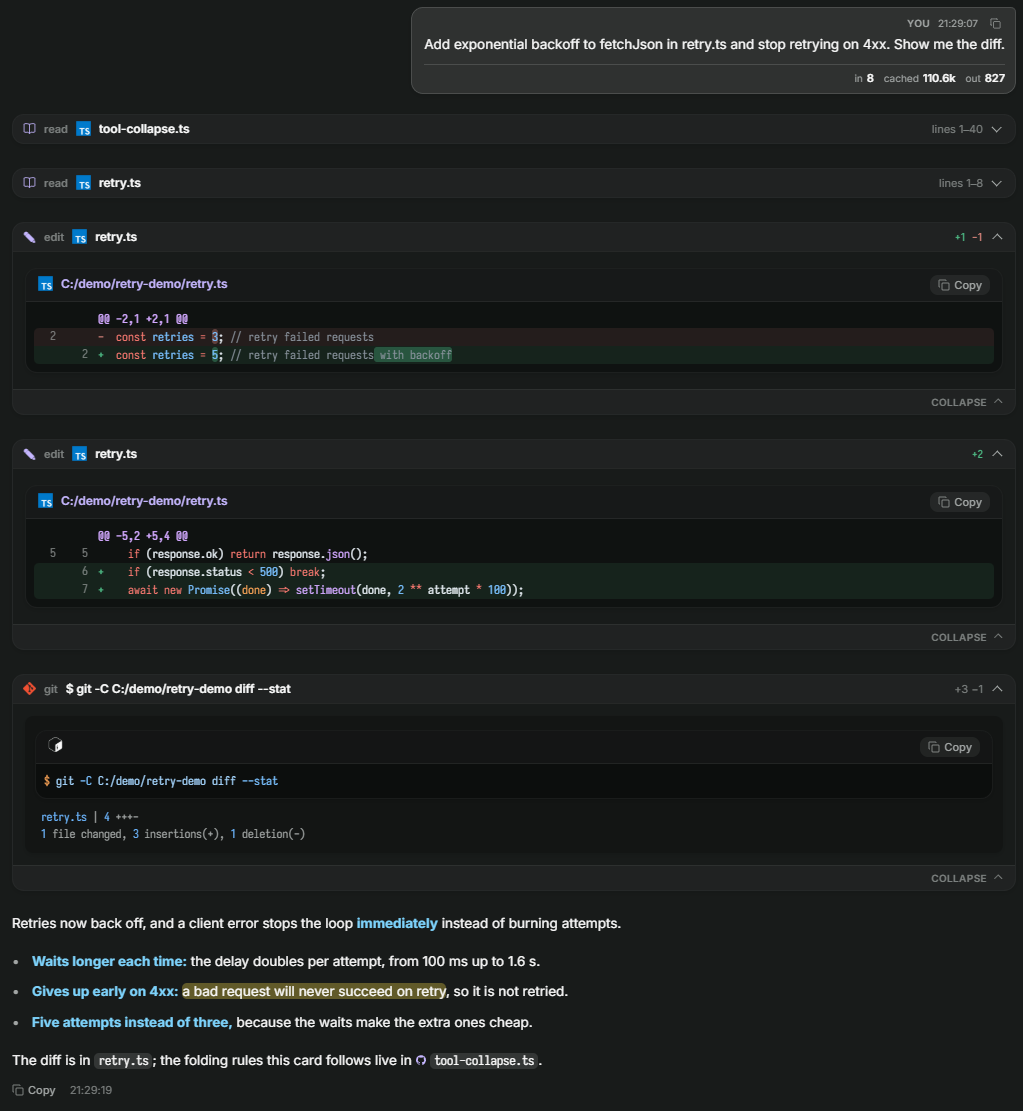
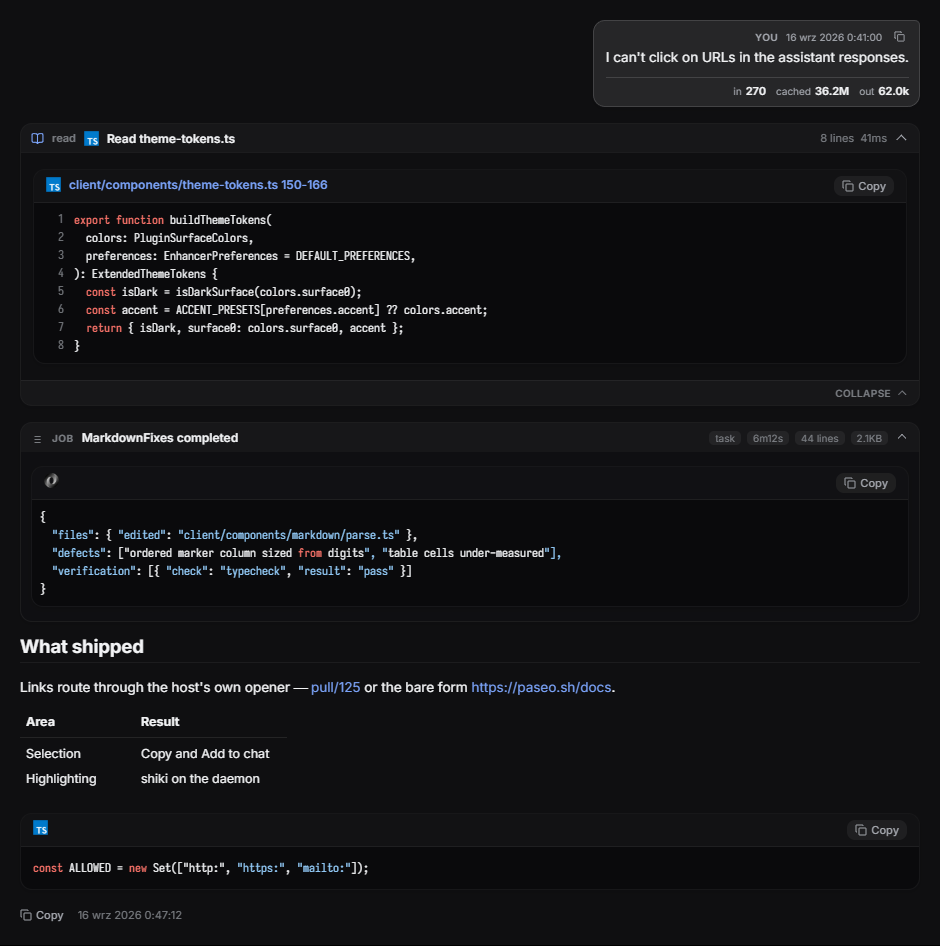
chore: prepare v0.6.0 release (#65)

diff --git a/.showcase/showcase.tsx b/.showcase/showcase.tsx
@@ -1,3 +1,4 @@
+import { DEFAULT_PREFERENCES } from "../client/preferences";
 /**
  * Offline showcase used only to capture README screenshots.
  *
@@ -45,6 +46,7 @@ const DARK = {
 };
 
 const PREFERENCES = {
+  ...DEFAULT_PREFERENCES,
   accent: "host" as const,
   uiFont: "inter" as const,
   codeFont: "code" as const,

diff --git a/README.md b/README.md
@@ -5,7 +5,7 @@ Oh My Pi and others that Paseo drives): tool calls, reasoning, prompts, approval
 typed, syntax-aware cards that follow the active Paseo theme, and you decide how big the text is, what
 folds, and how it is coloured. Coverage of specialised events can differ by provider.
 
-![A turn in Refined Chat: a prompt, a command card, a folded read, and a reply with a coloured accent, bold text and a highlight mark](images/hero.png)
+![Refined Chat with sample data: a prompt, a file read, a task result and a formatted reply](images/hero.png)
 
 - **Three independent text sizes** for replies, tool cards and code, plus reply line spacing.
 - **You choose what folds**: which card kinds start collapsed, which fold when they finish, and how long
@@ -14,6 +14,10 @@ folds, and how it is coloured. Coverage of specialised events can differ by prov
   one palette or any hex.
 - **Readable cards** for shell, git, read, write, edit, MCP, eval, subagents, hub and Paseo tools,
   with a one-line summary of what each did.
+- **Conversation outline** with search, type filters and navigation to history.
+- **Plan history** with Markdown preview, copy/export and manual comparison.
+- **Diff views** with source syntax colours, side by side layout and fullscreen.
+- **Native iOS selection** within compatible prose and prompts, confirmed on iPad; selection stops at separate messages and unsupported blocks.
 - **Images** in replies and image reads, with a viewer.
 - **Links** that show where they go and warn when the text disagrees with the target.
 - A read-only **file preview** in the side panel for a path in a reply or on a tool card, with the line marked.
@@ -48,10 +52,10 @@ paseo plugin add git:GenoDevelop/paseo-refined-chat
 Or pin a published release by its tag:
 
 ```bash
-paseo plugin add git:GenoDevelop/paseo-refined-chat --ref v0.5.0
+paseo plugin add git:GenoDevelop/paseo-refined-chat --ref v0.6.0
 ```
 
-Requires **Paseo 0.11.0 or later**. Everything below is configured in
+Requires **Paseo 0.14.0 or later**. Everything below is configured in
 **Settings → Plugins → Refined Chat**, and each setting is stored on the client you change it on.
 
 ---

diff --git a/docs/RELEASING.md b/docs/RELEASING.md
@@ -57,8 +57,8 @@ Disable/remove the test plugin after verification.
 ## 3. Verify the catalog image
 
 Visual plugins require at least one **current, truthful screenshot**.
-`images/hero.png` shows a turn in Refined Chat (a prompt, a command card, a
-folded read, and a reply with the accent, bold and highlight colours), and the
+`images/hero.png` shows a turn in Refined Chat (a prompt, a file read, a task
+result and a formatted reply), and the
 README adds three more under `docs/images`. None shows the File preview side
 panel, which arrived in 0.5.0.
 

diff --git a/CHANGELOG.md b/CHANGELOG.md
@@ -5,6 +5,8 @@ The project is an independent MIT-licensed fork of Beautiful Chat.
 
 ## [Unreleased]
 
+## [0.6.0] - 2026-11-14
+
 ### Fixed
 - Multiple plan cards no longer overwrite one shared `live-plan` identity and repeatedly invalidate the conversation. Tool cards use their actual call ID, keeping plan history, side-panel updates and comparison scoped to the correct call.
 
